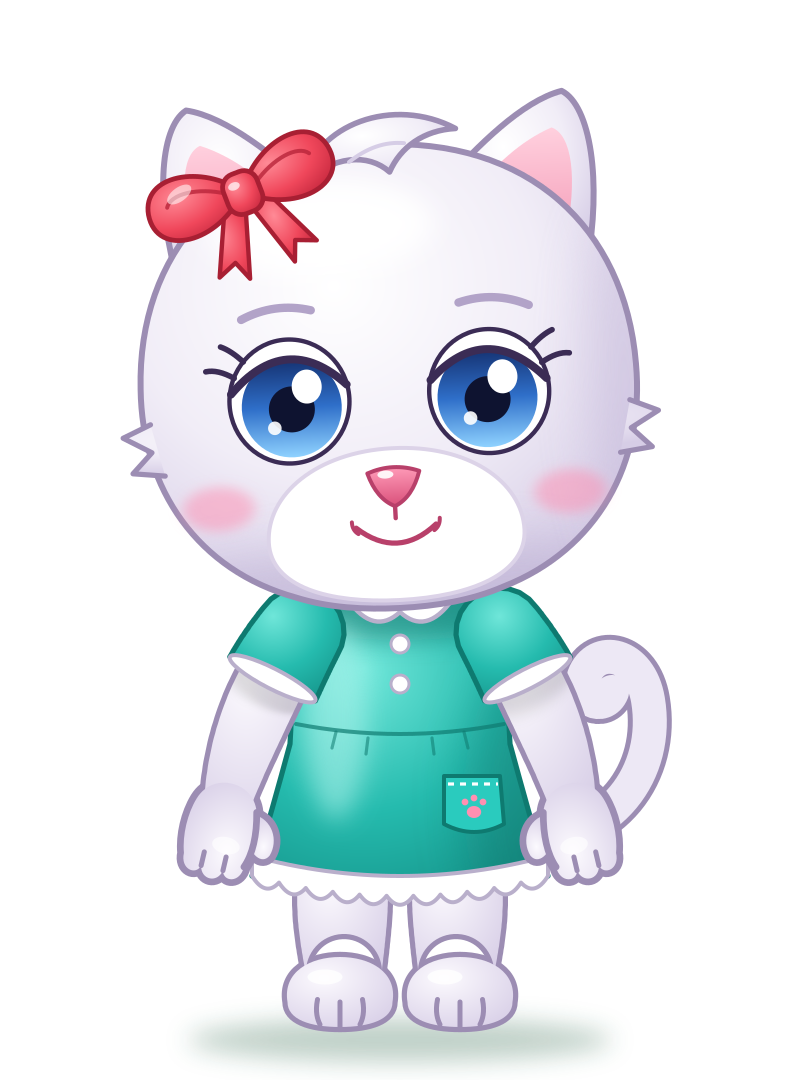
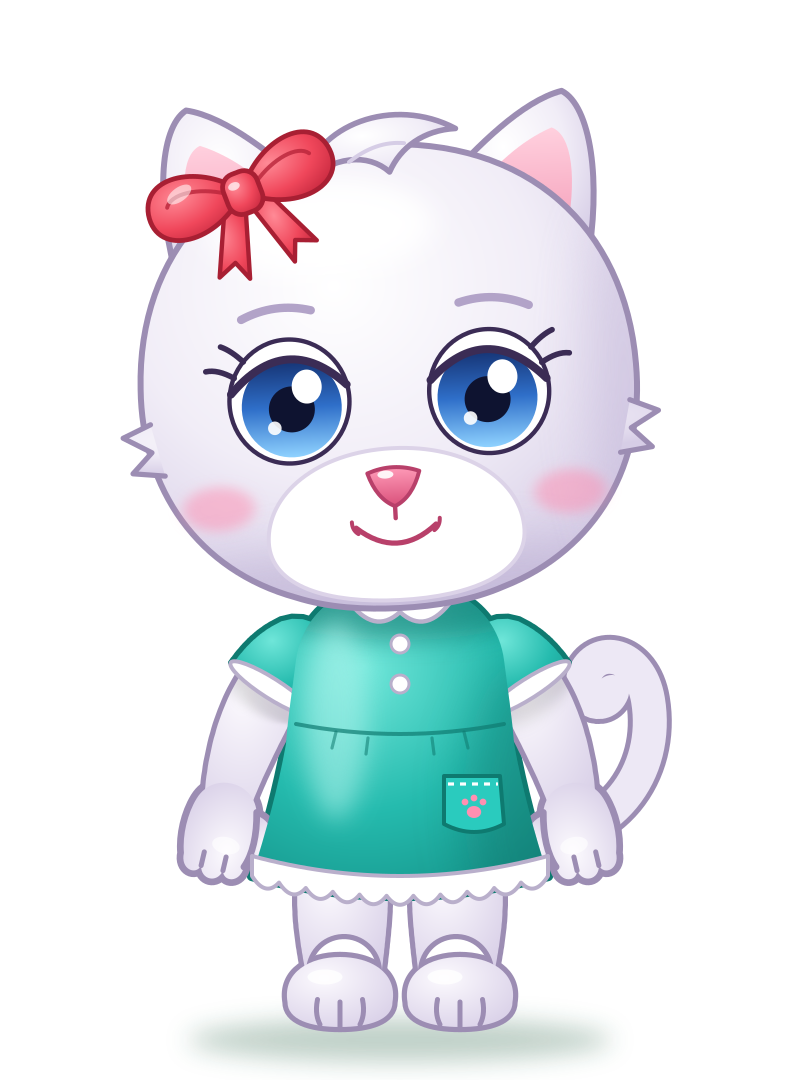
feat: give the kids delicate sloping shoulders merged with the sleeves

diff --git a/tools/character-drafts/rio.py b/tools/character-drafts/rio.py
@@ -31,13 +31,13 @@ DEFS = """<defs>
 <linearGradient id="nose" x1="0" y1="0" x2="0" y2="1"><stop offset="0" stop-color="#7A5244"/><stop offset="1" stop-color="#3A2420"/></linearGradient>
 <linearGradient id="earIn" x1="0" y1="0" x2="0" y2="1"><stop offset="0" stop-color="#FFD0C4"/><stop offset="1" stop-color="#E89A8C"/></linearGradient>
 <clipPath id="headC"><path d="M200,72 C276,72 322,120 324,188 C326,238 300,280 252,296 C236,302 218,304 200,304 C182,304 164,302 148,296 C100,280 74,238 76,188 C78,120 124,72 200,72 Z"/></clipPath>
-<clipPath id="torsoC"><path d="M156,300 Q200,292 244,300 C252,330 258,370 261,400 C263,420 262,434 257,442 L212,444 Q200,430 188,444 L143,442 C138,434 137,420 139,400 C142,370 148,330 156,300 Z"/></clipPath>
+<clipPath id="torsoC"><path d="M172,297 Q200,292 228,297 C241,303 250,315 252,330 C255,352 259,378 261,400 C263,420 262,434 257,442 L212,444 Q200,430 188,444 L143,442 C138,434 137,420 139,400 C141,378 145,352 148,330 C150,315 159,303 172,297 Z"/></clipPath>
 <clipPath id="eyeLC"><ellipse cx="150" cy="198" rx="30" ry="31"/></clipPath>
 <clipPath id="eyeRC"><ellipse cx="250" cy="198" rx="30" ry="31"/></clipPath>
 </defs>"""
 
 HEADP = "M200,72 C276,72 322,120 324,188 C326,238 300,280 252,296 C236,302 218,304 200,304 C182,304 164,302 148,296 C100,280 74,238 76,188 C78,120 124,72 200,72 Z"
-TORSOP = "M156,300 Q200,292 244,300 C252,330 258,370 261,400 C263,420 262,434 257,442 L212,444 Q200,430 188,444 L143,442 C138,434 137,420 139,400 C142,370 148,330 156,300 Z"
+TORSOP = "M172,297 Q200,292 228,297 C241,303 250,315 252,330 C255,352 259,378 261,400 C263,420 262,434 257,442 L212,444 Q200,430 188,444 L143,442 C138,434 137,420 139,400 C141,378 145,352 148,330 C150,315 159,303 172,297 Z"
 
 
 def limb(p0, p1, p2, p3, w0, w1, bulge=3, fill="url(#limb)", layer="both"):
@@ -121,8 +121,12 @@ def body_lower():
     return "".join(o)
 
 
-def torso():
-    """Butter-yellow striped T-shirt + sky-blue overalls."""
+def torso(layer="both"):
+    """Butter-yellow striped T-shirt + sky-blue overalls; layer as in Elide's
+    dress(). The outline is yellow like the sleeves at the top (so shoulders
+    and sleeves are one piece) and blue along the overalls."""
+    if layer == "outline":
+        return parts.merged_outline(TORSOP, TLINE)
     o = []
     o.append(f'<path d="{TORSOP}" fill="url(#shirt)"/>')
     o.append('<g clip-path="url(#torsoC)">')
@@ -142,9 +146,17 @@ def torso():
         '<ellipse cx="160" cy="400" rx="12" ry="34" fill="#DDF4FF" opacity="0.5" filter="url(#b6)"/>'
     )
     o.append("</g>")
-    o.append(
-        f'<path d="{TORSOP}" fill="none" stroke="{SLINE}" stroke-width="2.6" stroke-linejoin="round"/>'
-    )
+    if layer == "both":
+        o.append(
+            f'<path d="{TORSOP}" fill="none" stroke="{SLINE}" stroke-width="2.6" stroke-linejoin="round"/>'
+        )
+    else:
+        # blue outline along the overalls only
+        o.append(
+            '<clipPath id="overallsC"><rect x="100" y="362" width="200" height="120"/></clipPath>'
+            f'<path d="{TORSOP}" fill="none" stroke="{SLINE}" stroke-width="2.6" '
+            'stroke-linejoin="round" clip-path="url(#overallsC)"/>'
+        )
     # seams and hems of the shorts
     o.append(
         '<path d="M170,326 Q200,322 230,326 L233,360 Q200,366 167,360 Z" fill="none" stroke="#FFFFFF" stroke-width="1.6" stroke-dasharray="3 3" opacity="0.8"/>'
@@ -380,14 +392,18 @@ def sparkle(x, y, s, c=poses.SPARKLE):
     return f'<path transform="translate({x},{y}) scale({s})" d="{SPARKLE_D}" fill="{c}"/>'
 
 
-SL, SR = (150, 316), (250, 316)
+SL, SR = (148, 330), (252, 330)
 SLEEVE = dict(
     fill="url(#shirt)", line=TLINE, t1=0.28, w0=42, w1=36, trim="#FFE9A6", trim_line=TLINE
 )
 
 
-def arm(p0, p1, p2, p3, kind="back", hand_rot=None, fold=None):
-    return parts.arm(p0, p1, p2, p3, "url(#limb)", LINE, kind, hand_rot, SLEEVE, pad=PAD, fold=fold)
+def arm(p0, p1, p2, p3, kind="back", hand_rot=None):
+    return parts.arm(p0, p1, p2, p3, "url(#limb)", LINE, kind, hand_rot, SLEEVE, pad=PAD)
+
+
+def arm_front(p0, p1, p2, p3, kind="back", hand_rot=None, t0=0.5):
+    return parts.arm_front(p0, p1, p2, p3, "url(#limb)", LINE, kind, hand_rot, t0, pad=PAD)
 
 
 # Poses shared with Elide (same body): see poses.py.

diff --git a/tools/character-drafts/parts.py b/tools/character-drafts/parts.py
@@ -229,6 +229,47 @@ def merged_outline(d, line, width=2.6):
 # ---------------------------------------------------------------- arms
 
 
+def _hand_args(p0, p1, p2, p3, kind, hand_rot, fill, line, pad):
+    """Position, rotation and look of the hand at the end of an arm."""
+    q = bez(0.92, p0, p1, p2, p3)
+    dx, dy = p3[0] - q[0], p3[1] - q[1]
+    length = math.hypot(dx, dy) or 1
+    dx, dy = dx / length, dy / length
+    rot = math.degrees(math.atan2(dy, dx)) + 90 if hand_rot is None else hand_rot
+    return (p3[0] + dx * 14, p3[1] + dy * 14, rot, kind, fill, line, pad)
+
+
+def arm_front(
+    p0,
+    p1,
+    p2,
+    p3,
+    fur,
+    line,
+    kind="back",
+    hand_rot=None,
+    t0=0.5,
+    hand_fill=None,
+    hand_line=None,
+    pad="#F7B7CB",
+    w=(30, 24),
+):
+    """Forearm (from t0) and hand drawn again over an arm already drawn with
+    arm(): used when the hand goes in front of the head or the forearm comes
+    back over its own sleeve. Only its sides and tip are outlined, so it
+    starts seamlessly from the arm underneath."""
+    side = "L" if p0[0] < CENTER_X else "R"
+    hand = _hand_args(p0, p1, p2, p3, kind, hand_rot, hand_fill or fur, hand_line or line, pad)
+    edge = limb_outline(p0, p1, p2, p3, w[0], w[1], 3, t0=t0, closed=False)
+    piece = limb_outline(p0, p1, p2, p3, w[0], w[1], 3, t0=t0)
+    return [
+        f'<path d="{edge}" fill="none" stroke="{line}" stroke-width="5.2" stroke-linejoin="round"/>',
+        paw(*hand, side=side, layer="outline"),
+        f'<path d="{piece}" fill="{fur}"/>',
+        paw(*hand, side=side, layer="fill"),
+    ]
+
+
 def arm(
     p0,
     p1,
@@ -243,36 +284,21 @@ def arm(
     hand_line=None,
     pad="#F7B7CB",
     w=(30, 24),
-    fold=None,
 ):
     """Chubby arm with a sleeve that follows the arm curve.
 
     sleeve: None, or a dict with fill, line, t1 (where the sleeve ends, 0..1),
             w0/w1 (sleeve width), trim (optional trim color), trim_line,
             long (True for long sleeves: no shadow under the cuff).
-    fold:   for an arm folded onto itself (hand near the shoulder), the point
-            of the curve (0..1) after which the forearm is drawn again in front
-            of the upper arm and of the sleeve.
+    The forearm and the hand can then be drawn again in front of the head or
+    of the upper arm with arm_front().
     """
     _clip_n[0] += 1
     cid = f"armC{_clip_n[0]}"
     o = []
     arm_d = limb_outline(p0, p1, p2, p3, w[0], w[1], 3)
-    q = bez(0.92, p0, p1, p2, p3)
-    dx, dy = p3[0] - q[0], p3[1] - q[1]
-    length = math.hypot(dx, dy) or 1
-    dx, dy = dx / length, dy / length
-    rot = math.degrees(math.atan2(dy, dx)) + 90 if hand_rot is None else hand_rot
     side = "L" if p0[0] < CENTER_X else "R"
-    hand_args = (
-        p3[0] + dx * 14,
-        p3[1] + dy * 14,
-        rot,
-        kind,
-        hand_fill or fur,
-        hand_line or line,
-        pad,
-    )
+    hand_args = _hand_args(p0, p1, p2, p3, kind, hand_rot, hand_fill or fur, hand_line or line, pad)
     # Arm and hand are one piece: both outlines first, then the fills.
     o.append(f'<clipPath id="{cid}"><path d="{arm_d}"/></clipPath>')
     o.append(merged_outline(arm_d, line))
@@ -312,16 +338,6 @@ def arm(
                 f'<path d="M{c[0]:.1f},{c[1] - hw:.1f} a3,{hw:.1f} 0 0 1 0,{2 * hw:.1f}" transform="rotate({ang:.1f} {c[0]:.1f} {c[1]:.1f})" '
                 f'fill="none" stroke="{sleeve["line"]}" stroke-width="2" stroke-linecap="round" opacity="0.6"/>'
             )
-    if fold is not None:
-        # Forearm in front: outline its sides and tip only, so it starts
-        # seamlessly from the arm underneath.
-        edge = limb_outline(p0, p1, p2, p3, w[0], w[1], 3, t0=fold, closed=False)
-        o.append(
-            f'<path d="{edge}" fill="none" stroke="{line}" stroke-width="5.2" stroke-linejoin="round"/>'
-        )
-        o.append(paw(*hand_args, side=side, layer="outline"))
-        piece = limb_outline(p0, p1, p2, p3, w[0], w[1], 3, t0=fold)
-        o.append(f'<path d="{piece}" fill="{fur}"/>')
     o.append(paw(*hand_args, side=side, layer="fill"))
     return o
 

diff --git a/tools/character-drafts/elide.py b/tools/character-drafts/elide.py
@@ -30,13 +30,13 @@ DEFS = """<defs>
 <linearGradient id="earIn" x1="0" y1="0" x2="0" y2="1"><stop offset="0" stop-color="#FFD0DE"/><stop offset="1" stop-color="#F49DB8"/></linearGradient>
 <radialGradient id="bow" cx="35%" cy="30%" r="80%"><stop offset="0" stop-color="#FF8A96"/><stop offset="0.6" stop-color="#F0475B"/><stop offset="1" stop-color="#C92A40"/></radialGradient>
 <clipPath id="headC"><path d="M200,72 C276,72 322,120 324,188 C326,238 300,280 252,296 C236,302 218,304 200,304 C182,304 164,302 148,296 C100,280 74,238 76,188 C78,120 124,72 200,72 Z"/></clipPath>
-<clipPath id="dressC"><path d="M156,300 Q200,292 244,300 C250,320 254,346 255,372 C261,394 267,416 274,438 Q200,458 126,438 C133,416 139,394 145,372 C146,346 150,320 156,300 Z"/></clipPath>
+<clipPath id="dressC"><path d="M172,297 Q200,292 228,297 C241,303 250,315 252,330 C254,346 256,358 257,372 C261,394 267,416 274,438 Q200,458 126,438 C133,416 139,394 143,372 C144,358 146,346 148,330 C150,315 159,303 172,297 Z"/></clipPath>
 <clipPath id="eyeLC"><ellipse cx="150" cy="198" rx="30" ry="31"/></clipPath>
 <clipPath id="eyeRC"><ellipse cx="250" cy="198" rx="30" ry="31"/></clipPath>
 </defs>"""
 
 HEADP = "M200,72 C276,72 322,120 324,188 C326,238 300,280 252,296 C236,302 218,304 200,304 C182,304 164,302 148,296 C100,280 74,238 76,188 C78,120 124,72 200,72 Z"
-DRESSP = "M156,300 Q200,292 244,300 C250,320 254,346 255,372 C261,394 267,416 274,438 Q200,458 126,438 C133,416 139,394 145,372 C146,346 150,320 156,300 Z"
+DRESSP = "M172,297 Q200,292 228,297 C241,303 250,315 252,330 C254,346 256,358 257,372 C261,394 267,416 274,438 Q200,458 126,438 C133,416 139,394 143,372 C144,358 146,346 148,330 C150,315 159,303 172,297 Z"
 
 
 def tube(d, w, color=LIMB, line=LINE):
@@ -147,7 +147,11 @@ def body_lower(pose=None):
     return "".join(o)
 
 
-def dress():
+def dress(layer="both"):
+    """Dress; layer "outline" / "fill" / "both": the outline is drawn before
+    the arms and the fill after, so shoulders and sleeves are one piece."""
+    if layer == "outline":
+        return parts.merged_outline(DRESSP, DLINE)
     o = []
     o.append(f'<path d="{DRESSP}" fill="url(#dress)"/>')
     o.append(
@@ -156,9 +160,10 @@ def dress():
         '<ellipse cx="262" cy="400" rx="30" ry="70" fill="#0B6158" opacity="0.3" filter="url(#b12)"/>'
         '<ellipse cx="168" cy="360" rx="16" ry="50" fill="#BFFAF3" opacity="0.5" filter="url(#b6)"/></g>'
     )
-    o.append(
-        f'<path d="{DRESSP}" fill="none" stroke="{DLINE}" stroke-width="2.6" stroke-linejoin="round"/>'
-    )
+    if layer == "both":
+        o.append(
+            f'<path d="{DRESSP}" fill="none" stroke="{DLINE}" stroke-width="2.6" stroke-linejoin="round"/>'
+        )
     o.append(hem_scallops())
     o.append(
         f'<path d="M148,362 Q200,372 252,362" fill="none" stroke="{DLINE}" stroke-width="2" stroke-linecap="round" opacity="0.7"/>'
@@ -393,14 +398,18 @@ def sparkle(x, y, s, c=SPARKLE):
     return f'<path transform="translate({x},{y}) scale({s})" d="{SPARKLE_D}" fill="{c}"/>'
 
 
-SL, SR = (150, 316), (250, 316)
+SL, SR = (148, 330), (252, 330)
 SLEEVE = dict(
     fill="url(#dress)", line=DLINE, t1=0.3, w0=44, w1=36, trim="#FFFFFF", trim_line="#B9AFCB"
 )
 
 
-def arm(p0, p1, p2, p3, kind="back", hand_rot=None, fold=None):
-    return parts.arm(p0, p1, p2, p3, "url(#limb)", LINE, kind, hand_rot, SLEEVE, fold=fold)
+def arm(p0, p1, p2, p3, kind="back", hand_rot=None):
+    return parts.arm(p0, p1, p2, p3, "url(#limb)", LINE, kind, hand_rot, SLEEVE)
+
+
+def arm_front(p0, p1, p2, p3, kind="back", hand_rot=None, t0=0.5):
+    return parts.arm_front(p0, p1, p2, p3, "url(#limb)", LINE, kind, hand_rot, t0)
 
 
 # Poses shared with Rio (same body): see poses.py.

diff --git a/tools/character-drafts/poses.py b/tools/character-drafts/poses.py
@@ -5,14 +5,16 @@ into the animation rig, so the game animates exactly the approved poses.
 The kids (Elide, Rio) have the same body, so they share the same pose table.
 
 A character module using character() / main() provides: DEFS, EYE_X,
-SURPRISE_MARKS, MARKS_COLOR, POSE_DATA and the functions body_lower(), body(),
-arm(), collar(), head_base(), blush_cheeks(), brows(), eye(), mouth(),
+SURPRISE_MARKS, MARKS_COLOR, POSE_DATA and the functions body_lower(),
+body(layer), arm(), arm_front(), collar(), head_base(), blush_cheeks(), brows(), eye(), mouth(),
 sparkle().
 """
 
 import sys
 
 SPARKLE = "#FFD84A"
+# Point of the arm curve from which a "front" arm is drawn again over the head.
+FRONT_FROM = 0.5
 
 
 def arm_pose(shoulder, side, p1, p2, p3, kind="back", hand_rot=None, layer="back", fold=None):
@@ -135,13 +137,12 @@ def character(ch, pose):
     )
     o.append(f'<g transform="translate(0,{data["lift"]}) rotate({data["lean"]} 200 500)">')
     o.append(ch.body_lower())
-    back = []
-    front = []
+    # Torso, shoulders and sleeves are one piece (D-053): torso outline, all
+    # the arms, then the torso fill over the roots of the sleeves.
+    o.append(ch.body("outline"))
     for a in data["arms"]:
-        drawn = ch.arm(*a["points"], a["kind"], a["hand_rot"], a["fold"])
-        (front if a["layer"] == "front" else back).extend(drawn)
-    o.append(ch.body())
-    o.extend(back)
+        o.extend(ch.arm(*a["points"], a["kind"], a["hand_rot"]))
+    o.append(ch.body("fill"))
     o.append(ch.collar())
     f = data["face"]
     eye_l, eye_r = f["eyes"]
@@ -155,7 +156,10 @@ def character(ch, pose):
     o.append(ch.eye(ch.EYE_X[1], "R", dx, dy, eye_r))
     o.append(ch.mouth(f["mouth"]))
     o.append("</g>")
-    o.extend(front)
+    # Forearms and hands in front of the head or of their own sleeve.
+    for a in data["arms"]:
+        if a["layer"] == "front" or a["fold"] is not None:
+            o.extend(ch.arm_front(*a["points"], a["kind"], a["hand_rot"], a["fold"] or FRONT_FROM))
     for x, y, k, c in data.get("sparkles", ()):
         o.append(ch.sparkle(x, y, k, c))
     if data.get("marks"):

diff --git a/tools/character-drafts/export_rig.py b/tools/character-drafts/export_rig.py
@@ -21,6 +21,7 @@ import sys
 import xml.etree.ElementTree as ET
 
 import parts
+import poses
 
 HERE = os.path.dirname(os.path.abspath(__file__))
 ROOT = os.path.join(HERE, "..", "..")
@@ -183,7 +184,8 @@ def main():
                 cx, side, kind
             )
             part(f"eye_{side.lower()}_{kind}", content)
-    part("body", ch.body())
+    part("body_outline", ch.body("outline"))
+    part("body_fill", ch.body("fill"))
     part("collar", ch.collar())
     part("tail", ch.tail())
     # Hands and feet come in two layers, so the game can merge them with the
@@ -204,7 +206,7 @@ def main():
         line=ch.LINE,
         limbStroke=2.6,
         limbFill="limb",
-        arm=dict(w0=30, w1=24, bulge=3, handOffset=14),
+        arm=dict(w0=30, w1=24, bulge=3, handOffset=14, frontFrom=poses.FRONT_FROM),
         sleeve=dict(
             fill=url_id(sleeve["fill"]),
             line=sleeve["line"],

diff --git a/docs/characters/README.md b/docs/characters/README.md
@@ -21,6 +21,7 @@ Every sheet in this folder follows these rules: what changes is the character's 
 - Chubby arms and legs, thicker at the root; little hands with a thumb and three fingers, feet with toes.
 - Hands follow their **handedness** (D-051): with the palm shown and the fingers up (wave, cheer, surprised) the thumb points **towards the body**; at rest, arm hanging and back of the hand to the viewer, the thumb is also towards the body; with the back shown and the fingers up it points outwards.
 - Hands and feet are **one piece with the limbs**: no outline at the wrist or ankle, only the outer silhouette is outlined (lines stay only inside: thumb against palm, fingers, toes).
+- **Shoulders** are part of the torso: gently sloping and narrow (delicate, not athletic), and the sleeve continues the torso outline with no break (D-053).
 - In every pose the arms must stay **visible**: raised arms go beside the head, not behind it; a forearm that comes back to the face or the chest crosses in front of its own upper arm and sleeve.
 - Sleeves follow the arm in every pose: the arm comes out of the sleeve with a soft shadow, without a visible joint.
 - Kids (Elide, Rio) and adults (Dad, Mom) have the same head: the body is what changes.
